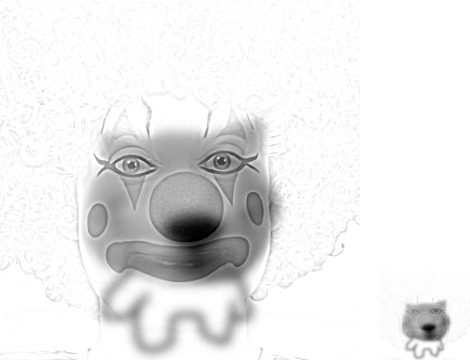
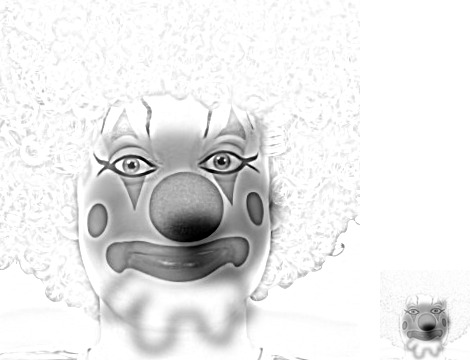
tweaked sigma values

diff --git a/cs180/project2/index.html b/cs180/project2/index.html
@@ -449,12 +449,16 @@ def sharpen(im, sigma, alpha):
             the high frequencies of another image (the image minus its Gaussian blur, which is the impulse
             minus Gaussian filter), and add them together.
         </p>
-        <p class="formula">hybrid = (I<sub>1</sub> - I<sub>1</sub> * G<sub>sigma_high</sub>) + I<sub>2</sub> * G<sub>sigma_low</sub></p>
+        <p class="formula">hybrid = k (I<sub>1</sub> - I<sub>1</sub> * G<sub>sigma_high</sub>) + I<sub>2</sub> * G<sub>sigma_low</sub></p>
 <pre><code>def high_pass(im, sigma):
     return im - blur(im, sigma)
 
-def hybrid_image(im_high, im_low, sigma_high, sigma_low):
-    return np.clip(high_pass(im_high, sigma_high) + blur(im_low, sigma_low), 0, 1)</code></pre>
+def hybrid_image(im_high, im_low, sigma_high, sigma_low, gain=1.0):
+    return np.clip(gain * high_pass(im_high, sigma_high) + blur(im_low, sigma_low), 0, 1)</code></pre>
+        <p>
+            k is a gain on the high frequencies. It is 1 (so it does nothing) for Derek + Nutmeg, and 1.5 for
+            the other two hybrids below.
+        </p>
         <p>
             The stacks in Part 2.3 need very wide Gaussians, so <code>blur</code> blurs the rows with the 1D
             Gaussian and then the columns. The 2D Gaussian is the outer product of the 1D one, so this gives
@@ -544,17 +548,20 @@ def hybrid_image(im_high, im_low, sigma_high, sigma_low):
             chosen, since that is where each image shows at its own distance.
         </p>
         <table>
-<thead><tr><th>hybrid</th><th>high frequencies from</th><th>low frequencies from</th><th>sigma_high (cutoff)</th><th>sigma_low (cutoff)</th></tr></thead>
+<thead><tr><th>hybrid</th><th>high frequencies from</th><th>low frequencies from</th><th>sigma_high (cutoff)</th><th>sigma_low (cutoff)</th><th>gain k</th></tr></thead>
 <tbody>
-<tr><td>Derek + Nutmeg</td><td>Nutmeg</td><td>Derek</td><td>4 (0.047 cycles/px)</td><td>8 (0.023 cycles/px)</td></tr>
-<tr><td>Clown + fox</td><td>clown</td><td>fox</td><td>2 (0.094 cycles/px)</td><td>5 (0.037 cycles/px)</td></tr>
-<tr><td>Disco ball + Pitbull</td><td>disco ball</td><td>Pitbull</td><td>4 (0.047 cycles/px)</td><td>8 (0.023 cycles/px)</td></tr>
+<tr><td>Derek + Nutmeg</td><td>Nutmeg</td><td>Derek</td><td>4 (0.047 cycles/px)</td><td>8 (0.023 cycles/px)</td><td>1</td></tr>
+<tr><td>Clown + fox</td><td>clown</td><td>fox</td><td>3 (0.062 cycles/px)</td><td>6 (0.031 cycles/px)</td><td>1.5</td></tr>
+<tr><td>Disco ball + Pitbull</td><td>disco ball</td><td>Pitbull</td><td>8 (0.023 cycles/px)</td><td>12 (0.016 cycles/px)</td><td>1.5</td></tr>
 </tbody>
 </table>
         <p>
             The clown + fox hybrid is smaller (360 x 360 after aligning), so the same blur would cover more
             of the picture. This is why its sigmas are smaller, to keep the cutoffs about the same relative to
-            the size of the faces.
+            the size of the faces. The clown is also mostly thin lines on a white background, so with a gain of
+            1 it was faint up close. Its high frequencies are multiplied by 1.5 to make the eyes, makeup and wig
+            clearer, and sigma_high went from 2 to 3 to keep a bit more of the clown. Going further (sigma_high
+            = 4, sigma_low = 7) made the clown show up even in the zoomed out version, so 3 and 6 were kept.
         </p>
 
         <h3>Up close and from far away</h3>
@@ -588,6 +595,15 @@ def hybrid_image(im_high, im_low, sigma_high, sigma_low):
             sunglasses. The disco ball is used for the high frequencies since the tiles are almost all sharp
             edges, while Pitbull can be recognised from his sunglasses and the shape of his bald head, which are
             still visible after a heavy blur.
+        </p>
+        <p>
+            With the same settings as Derek + Nutmeg (sigma_high = 4, sigma_low = 8), the ball was hard to see
+            up close. The tiles are big, so a high pass with sigma = 4 only keeps the thin outlines of each
+            tile, and the bright face underneath drowns them out. So sigma_high was raised to 8, which keeps
+            whole tiles and the dark patches on the ball, and the high frequencies are multiplied by a gain of
+            k = 1.5 to make them stronger against his face. Pitbull is blurred more (sigma_low = 12) to leave
+            room for them. Going further (sigma_high = 10, sigma_low = 14) made the tiles show through even in
+            the zoomed out version, so 8 and 12 were kept.
         </p>
         <div class="media-grid originals">
             <figure><img src="media/part2_2/disco_pitbull/original_high.jpg" alt="Disco ball"><figcaption>Disco ball (high frequencies)</figcaption></figure>
